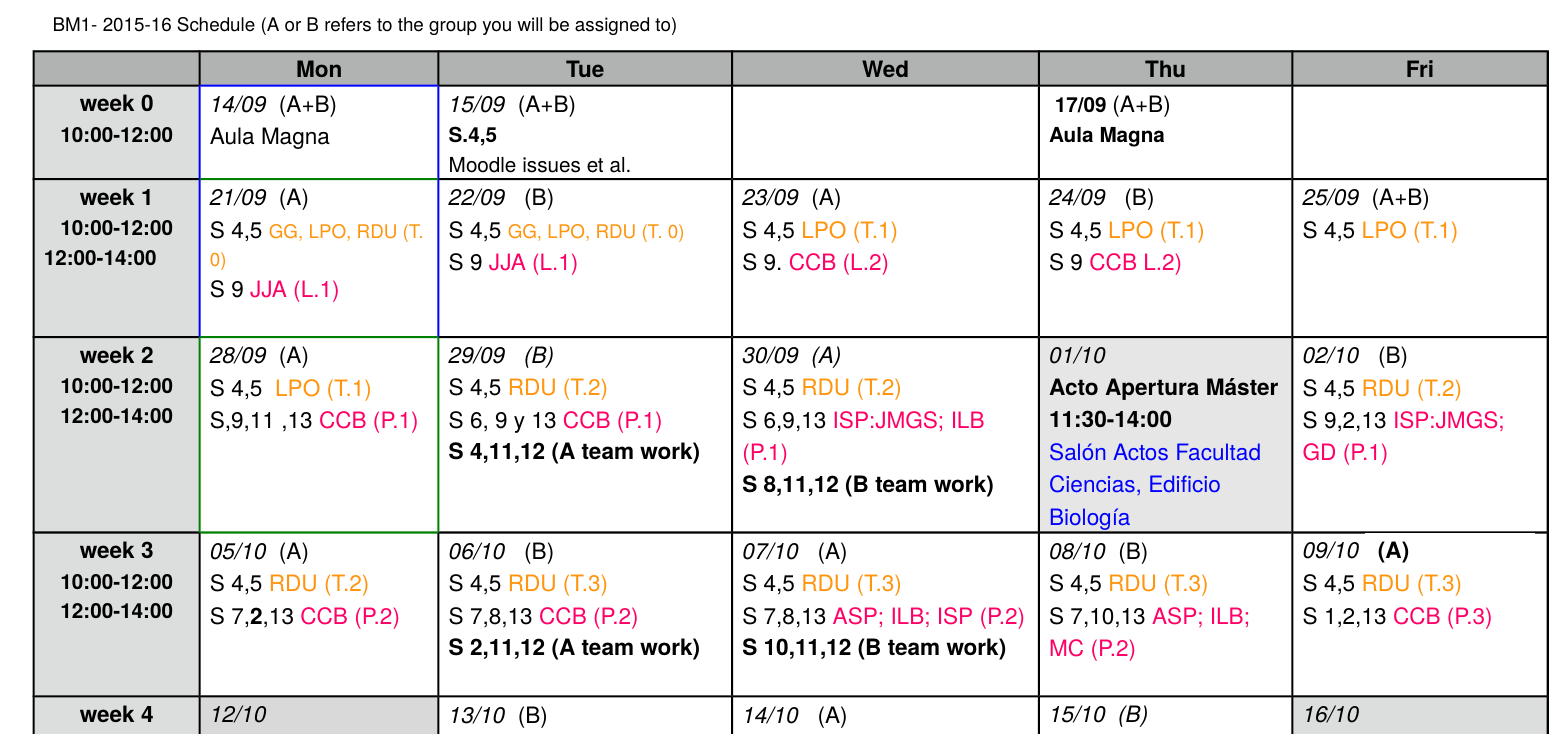
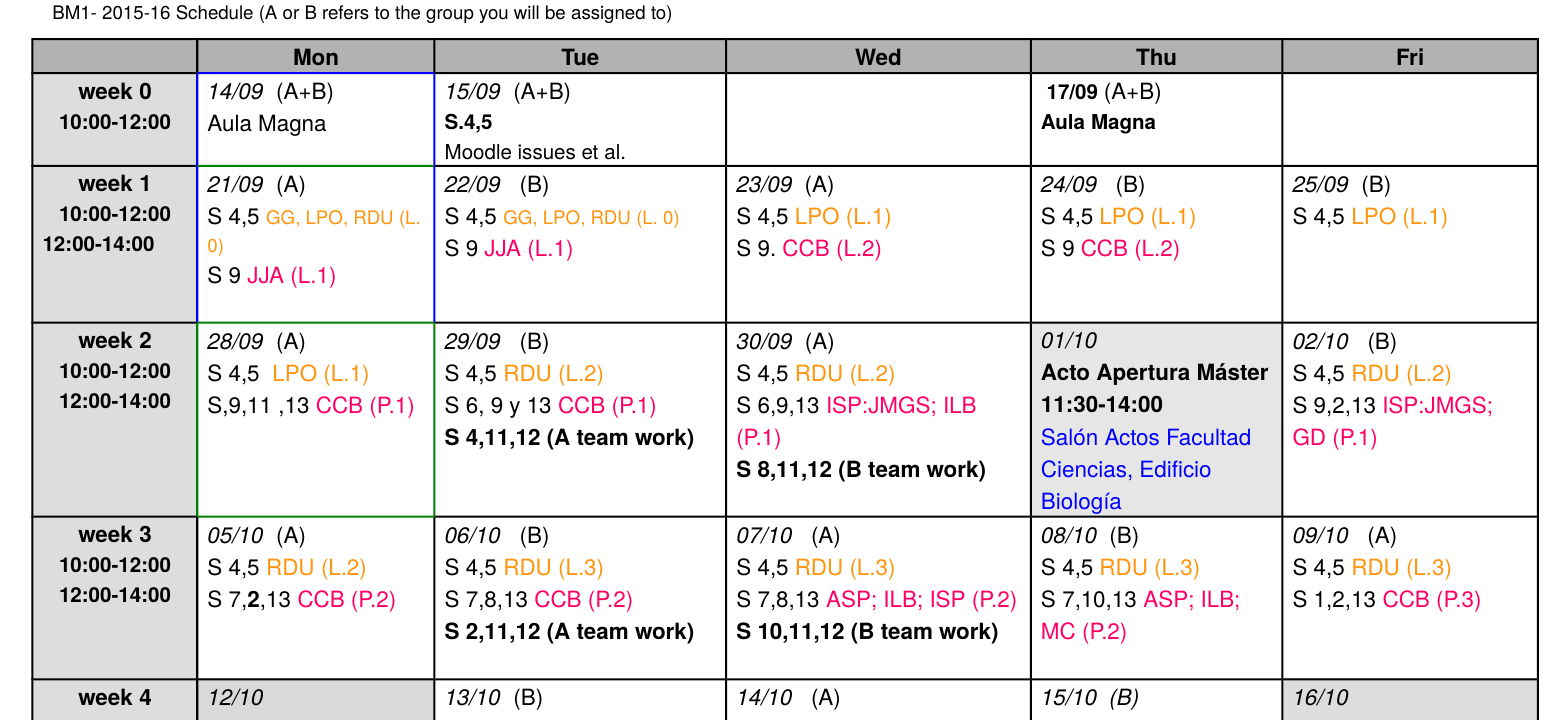
schedule: more details

Changed region(s): [[0.0, 0.0, 1.0, 1.0]]

diff --git a/2015-2016/IntroPresentation/First-day-gral-bm1-presentation.tex b/2015-2016/IntroPresentation/First-day-gral-bm1-presentation.tex
@@ -232,6 +232,9 @@ Madrid, Spain\\
     group you belong to.
   \item For scientific communication, there are subgroups (more details
     later).
+  \item Pay attention to Schedule! E.g., Applied statistics, 24, 25, and
+    28 September, for groups A and B.
+  \item Seminars for team work in Schedule too.
   \end{itemize}
 \end{frame}
 
